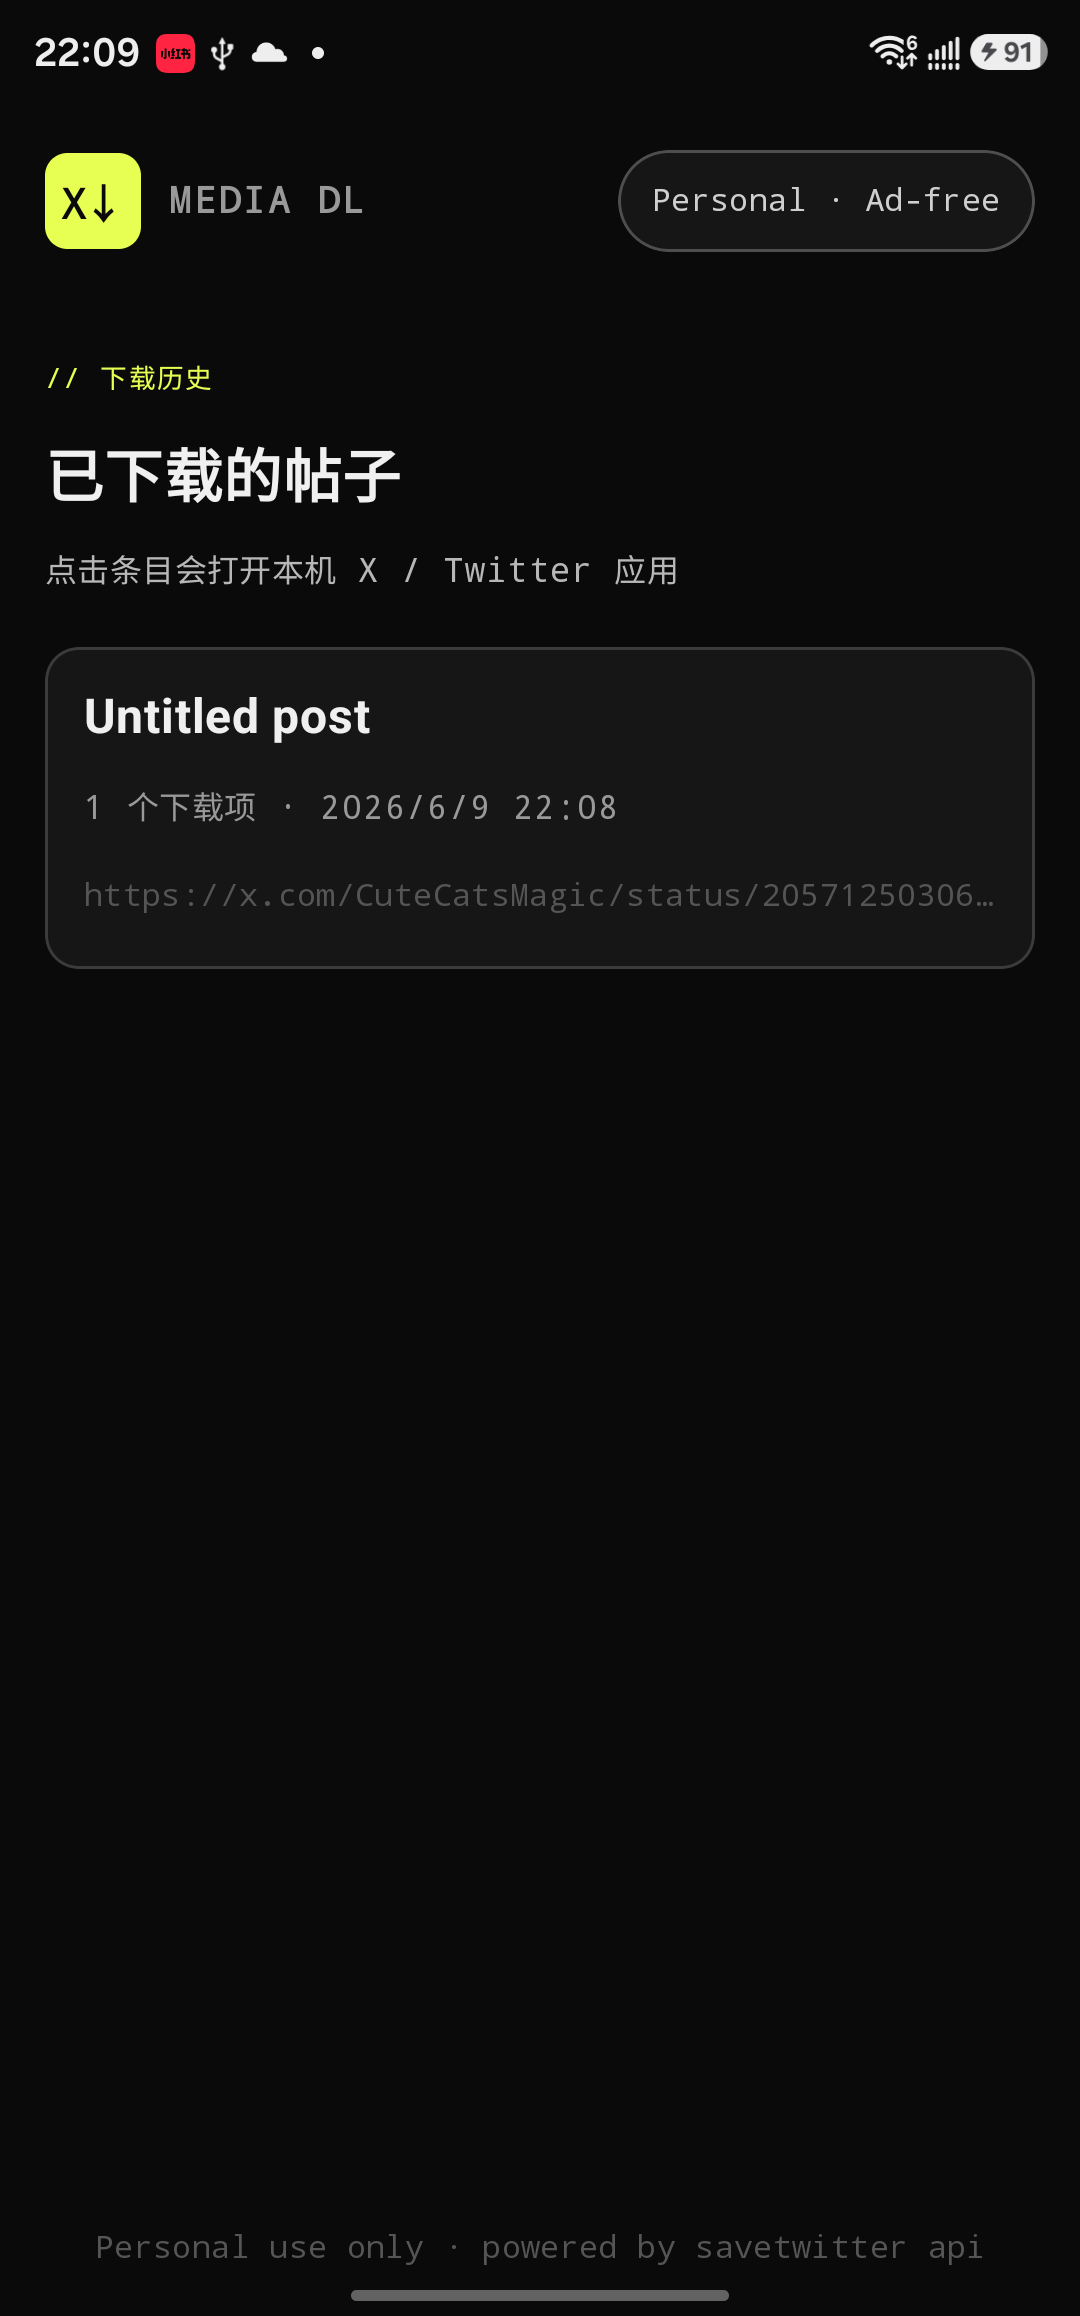
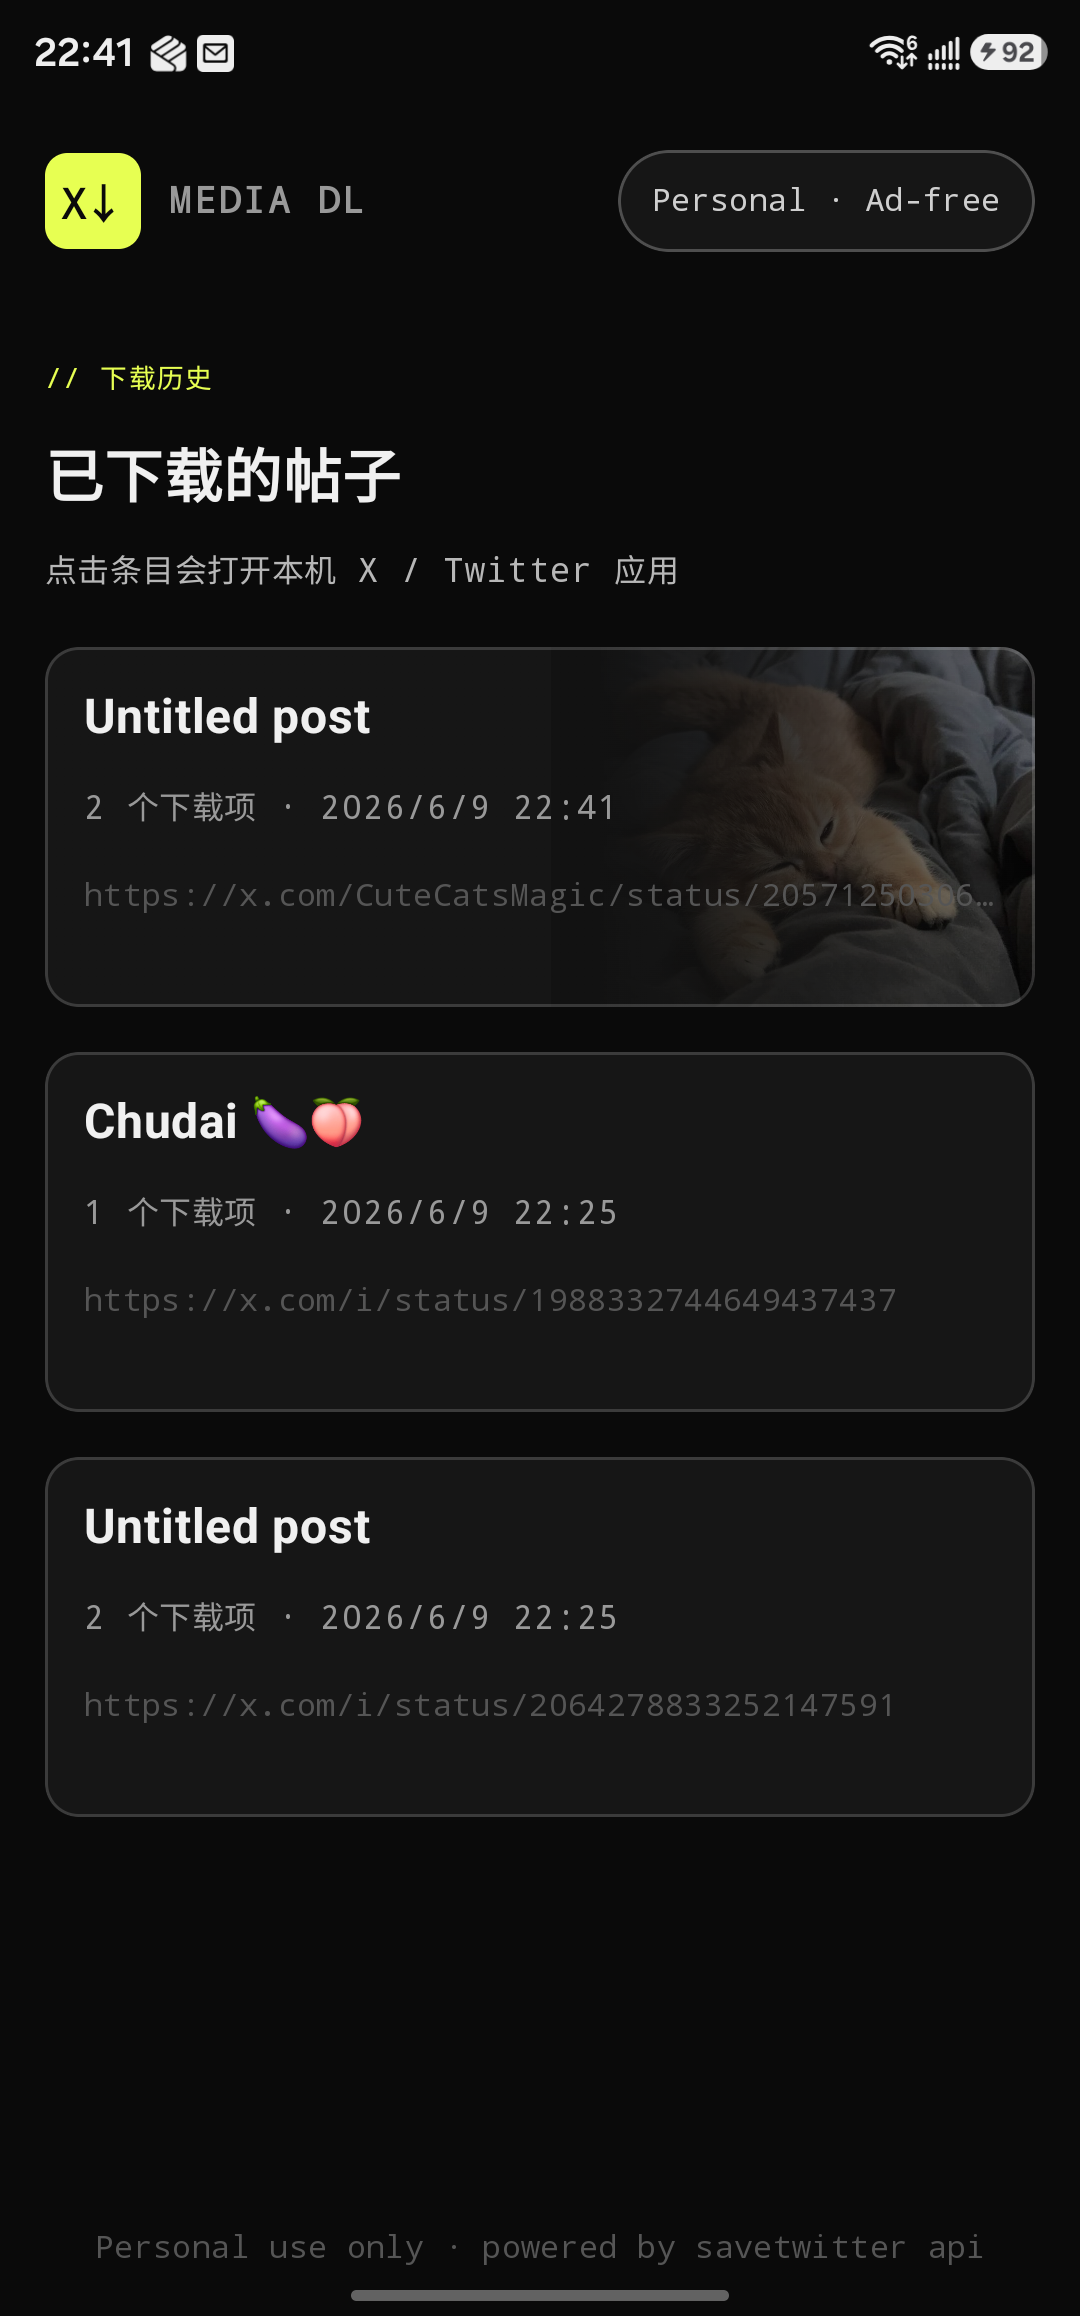
优化下载历史预览图展示

diff --git a/app/src/main/java/net/xmediadl/app/ui/Screens.kt b/app/src/main/java/net/xmediadl/app/ui/Screens.kt
@@ -13,11 +13,13 @@ import androidx.compose.foundation.layout.PaddingValues
 import androidx.compose.foundation.layout.Row
 import androidx.compose.foundation.layout.Spacer
 import androidx.compose.foundation.layout.aspectRatio
+import androidx.compose.foundation.layout.fillMaxHeight
 import androidx.compose.foundation.layout.fillMaxSize
 import androidx.compose.foundation.layout.fillMaxWidth
 import androidx.compose.foundation.layout.height
 import androidx.compose.foundation.layout.padding
 import androidx.compose.foundation.layout.size
+import androidx.compose.foundation.layout.width
 import androidx.compose.foundation.shape.RoundedCornerShape
 import androidx.compose.foundation.text.BasicTextField
 import androidx.compose.foundation.text.KeyboardActions
@@ -35,6 +37,7 @@ import androidx.compose.runtime.setValue
 import androidx.compose.ui.Alignment
 import androidx.compose.ui.Modifier
 import androidx.compose.ui.draw.clip
+import androidx.compose.ui.graphics.Brush
 import androidx.compose.ui.graphics.Color
 import androidx.compose.ui.graphics.SolidColor
 import androidx.compose.ui.graphics.asImageBitmap
@@ -380,38 +383,82 @@ fun HistoryScreen(
 
 @Composable
 fun HistoryItem(item: DownloadHistoryPost, onOpenPost: (String) -> Unit) {
-    Column(
+    var previewBitmap by remember(item.previewUrl) { mutableStateOf<Bitmap?>(null) }
+
+    LaunchedEffect(item.previewUrl) {
+        previewBitmap = item.previewUrl?.let { RemoteImageLoader.loadBitmap(it) }
+    }
+
+    Box(
         modifier = Modifier
             .fillMaxWidth()
+            .height(128.dp)
             .clip(RoundedCornerShape(12.dp))
             .background(AppColors.Surface)
             .border(1.dp, AppColors.Border, RoundedCornerShape(12.dp))
-            .clickable { onOpenPost(item.postUrl) }
-            .padding(14.dp),
-        verticalArrangement = Arrangement.spacedBy(8.dp),
+            .clickable { onOpenPost(item.postUrl) },
     ) {
-        Text(
-            item.title.ifBlank { item.postUrl },
-            maxLines = 2,
-            overflow = TextOverflow.Ellipsis,
-            fontSize = 17.sp,
-            lineHeight = 22.sp,
-            fontWeight = FontWeight.Bold,
-        )
-        Text(
-            "${item.itemCount} 个下载项 · ${DateFormat.getDateTimeInstance(DateFormat.SHORT, DateFormat.SHORT).format(Date(item.lastDownloadedAt))}",
-            color = AppColors.TextSecondary,
-            fontFamily = FontFamily.Monospace,
-            fontSize = 12.sp,
-        )
-        Text(
-            item.postUrl,
-            maxLines = 1,
-            overflow = TextOverflow.Ellipsis,
-            color = AppColors.TextMuted,
-            fontFamily = FontFamily.Monospace,
-            fontSize = 11.sp,
-        )
+        val currentPreview = previewBitmap
+        if (currentPreview != null) {
+            Image(
+                bitmap = currentPreview.asImageBitmap(),
+                contentDescription = null,
+                modifier = Modifier
+                    .align(Alignment.CenterEnd)
+                    .fillMaxHeight()
+                    .width(172.dp),
+                contentScale = ContentScale.Crop,
+            )
+            Box(
+                modifier = Modifier
+                    .matchParentSize()
+                    .background(
+                        Brush.horizontalGradient(
+                            0f to AppColors.Surface,
+                            0.56f to AppColors.Surface,
+                            0.78f to AppColors.Surface.copy(alpha = 0.72f),
+                            1f to AppColors.Surface.copy(alpha = 0.18f),
+                        ),
+                    ),
+            )
+            Box(
+                modifier = Modifier
+                    .align(Alignment.CenterEnd)
+                    .fillMaxHeight()
+                    .width(172.dp)
+                    .background(Color.Black.copy(alpha = 0.18f)),
+            )
+        }
+
+        Column(
+            modifier = Modifier
+                .matchParentSize()
+                .padding(14.dp),
+            verticalArrangement = Arrangement.spacedBy(8.dp),
+        ) {
+            Text(
+                item.title.ifBlank { item.postUrl },
+                maxLines = 2,
+                overflow = TextOverflow.Ellipsis,
+                fontSize = 17.sp,
+                lineHeight = 22.sp,
+                fontWeight = FontWeight.Bold,
+            )
+            Text(
+                "${item.itemCount} 个下载项 · ${DateFormat.getDateTimeInstance(DateFormat.SHORT, DateFormat.SHORT).format(Date(item.lastDownloadedAt))}",
+                color = AppColors.TextSecondary,
+                fontFamily = FontFamily.Monospace,
+                fontSize = 12.sp,
+            )
+            Text(
+                item.postUrl,
+                maxLines = 1,
+                overflow = TextOverflow.Ellipsis,
+                color = AppColors.TextMuted,
+                fontFamily = FontFamily.Monospace,
+                fontSize = 11.sp,
+            )
+        }
     }
 }
 

diff --git a/app/src/main/java/net/xmediadl/app/data/DownloadHistoryStore.kt b/app/src/main/java/net/xmediadl/app/data/DownloadHistoryStore.kt
@@ -9,7 +9,7 @@ import kotlinx.coroutines.withContext
 import net.xmediadl.app.model.DownloadHistoryPost
 
 class DownloadHistoryStore(context: Context) :
-    SQLiteOpenHelper(context, "download_history.db", null, 1) {
+    SQLiteOpenHelper(context, "download_history.db", null, 2) {
 
     override fun onCreate(db: SQLiteDatabase) {
         db.execSQL(
@@ -21,7 +21,8 @@ class DownloadHistoryStore(context: Context) :
                 media_url TEXT NOT NULL UNIQUE,
                 media_type TEXT NOT NULL,
                 file_name TEXT NOT NULL,
-                downloaded_at INTEGER NOT NULL
+                downloaded_at INTEGER NOT NULL,
+                preview_url TEXT
             )
             """.trimIndent(),
         )
@@ -30,8 +31,11 @@ class DownloadHistoryStore(context: Context) :
     }
 
     override fun onUpgrade(db: SQLiteDatabase, oldVersion: Int, newVersion: Int) {
-        db.execSQL("DROP TABLE IF EXISTS downloads")
-        onCreate(db)
+        if (oldVersion < 2) {
+            // 旧版本已经在用户手机里存过下载历史，不能为了加一个字段直接删表。
+            // SQLite 支持 ALTER TABLE ADD COLUMN，适合这种向后兼容的小升级。
+            db.execSQL("ALTER TABLE downloads ADD COLUMN preview_url TEXT")
+        }
     }
 
     suspend fun hasMedia(mediaUrl: String): Boolean = withContext(Dispatchers.IO) {
@@ -49,6 +53,7 @@ class DownloadHistoryStore(context: Context) :
         mediaUrl: String,
         mediaType: String,
         fileName: String,
+        previewUrl: String?,
     ) = withContext(Dispatchers.IO) {
         // media_url 是去重键。同一个资源再次下载时更新记录时间，
         // 相册里的旧文件不处理，由用户自己决定是否保留。
@@ -59,6 +64,7 @@ class DownloadHistoryStore(context: Context) :
             put("media_type", mediaType)
             put("file_name", fileName)
             put("downloaded_at", System.currentTimeMillis())
+            put("preview_url", previewUrl.orEmpty())
         }
         writableDatabase.insertWithOnConflict(
             "downloads",
@@ -72,7 +78,23 @@ class DownloadHistoryStore(context: Context) :
     suspend fun listPosts(): List<DownloadHistoryPost> = withContext(Dispatchers.IO) {
         readableDatabase.rawQuery(
             """
-            SELECT post_url, post_title, COUNT(*) AS item_count, MAX(downloaded_at) AS last_downloaded_at
+            SELECT
+                post_url,
+                post_title,
+                COUNT(*) AS item_count,
+                MAX(downloaded_at) AS last_downloaded_at,
+                COALESCE(
+                    (
+                        SELECT d2.preview_url
+                        FROM downloads d2
+                        WHERE d2.post_url = downloads.post_url
+                            AND d2.preview_url IS NOT NULL
+                            AND d2.preview_url != ''
+                        ORDER BY d2.downloaded_at ASC
+                        LIMIT 1
+                    ),
+                    ''
+                ) AS preview_url
             FROM downloads
             GROUP BY post_url
             ORDER BY last_downloaded_at DESC
@@ -87,6 +109,7 @@ class DownloadHistoryStore(context: Context) :
                             title = cursor.getString(1),
                             itemCount = cursor.getInt(2),
                             lastDownloadedAt = cursor.getLong(3),
+                            previewUrl = cursor.getString(4).ifBlank { null },
                         ),
                     )
                 }

diff --git a/app/src/main/java/net/xmediadl/app/viewmodel/XMediaViewModel.kt b/app/src/main/java/net/xmediadl/app/viewmodel/XMediaViewModel.kt
@@ -17,7 +17,9 @@ import net.xmediadl.app.download.GalleryDownloader
 import net.xmediadl.app.download.buildFileName
 import net.xmediadl.app.model.MediaItem
 import net.xmediadl.app.model.PendingDownload
+import net.xmediadl.app.model.PhotoEntry
 import net.xmediadl.app.model.ResolvedPost
+import net.xmediadl.app.model.VideoEntry
 import net.xmediadl.app.model.fileExtension
 import net.xmediadl.app.network.SaveTwitterResolver
 import net.xmediadl.app.utils.looksLikeXUrl
@@ -142,11 +144,12 @@ class XMediaViewModel(
                             item = item,
                             postUrl = post.postUrl,
                             postTitle = post.title.ifBlank { "Untitled post" },
+                            previewUrl = post.firstPreviewUrl(),
                         ),
                     )
                 }
             } else {
-                performDownload(item, post.postUrl, post.title.ifBlank { "Untitled post" })
+                performDownload(item, post.postUrl, post.title.ifBlank { "Untitled post" }, post.firstPreviewUrl())
             }
         }
     }
@@ -154,7 +157,7 @@ class XMediaViewModel(
     fun confirmDuplicateDownload() {
         val pending = uiState.value.pendingDownload ?: return
         _uiState.update { it.copy(pendingDownload = null) }
-        performDownload(pending.item, pending.postUrl, pending.postTitle)
+        performDownload(pending.item, pending.postUrl, pending.postTitle, pending.previewUrl)
     }
 
     fun dismissDuplicateDialog() {
@@ -201,7 +204,7 @@ class XMediaViewModel(
         }
     }
 
-    private fun performDownload(item: MediaItem, postUrl: String, postTitle: String) {
+    private fun performDownload(item: MediaItem, postUrl: String, postTitle: String, previewUrl: String?) {
         val pendingName = buildFileName(postTitle, item.quality, item.fileExtension(), item.fileSuffix)
         _uiState.update { it.copy(notice = "开始保存到相册：$pendingName") }
 
@@ -214,6 +217,7 @@ class XMediaViewModel(
                         mediaUrl = item.url,
                         mediaType = item.type.name,
                         fileName = savedName,
+                        previewUrl = previewUrl,
                     )
                     _uiState.update { it.copy(notice = "已保存到相册：$savedName") }
                     refreshHistory()
@@ -239,4 +243,19 @@ class XMediaViewModel(
             return XMediaViewModel(context, initialUrl) as T
         }
     }
+}
+
+private fun ResolvedPost.firstPreviewUrl(): String? {
+    // 历史列表右侧需要一张稳定的预览图。
+    // 优先用第一个媒体资源的图片：图片帖用图片本身，视频帖用封面；
+    // 如果解析结果没有明确封面，再退回帖子缩略图。
+    return mediaEntries.asSequence()
+        .mapNotNull { entry ->
+            when (entry) {
+                is PhotoEntry -> entry.photo.url
+                is VideoEntry -> entry.cover?.url
+            }
+        }
+        .firstOrNull()
+        ?: thumbnailUrl
 }

diff --git a/app/src/main/java/net/xmediadl/app/model/MediaModels.kt b/app/src/main/java/net/xmediadl/app/model/MediaModels.kt
@@ -40,12 +40,14 @@ data class DownloadHistoryPost(
     val title: String,
     val itemCount: Int,
     val lastDownloadedAt: Long,
+    val previewUrl: String?,
 )
 
 data class PendingDownload(
     val item: MediaItem,
     val postUrl: String,
     val postTitle: String,
+    val previewUrl: String?,
 )
 
 fun MediaItem.fileExtension(): String = when (type) {
